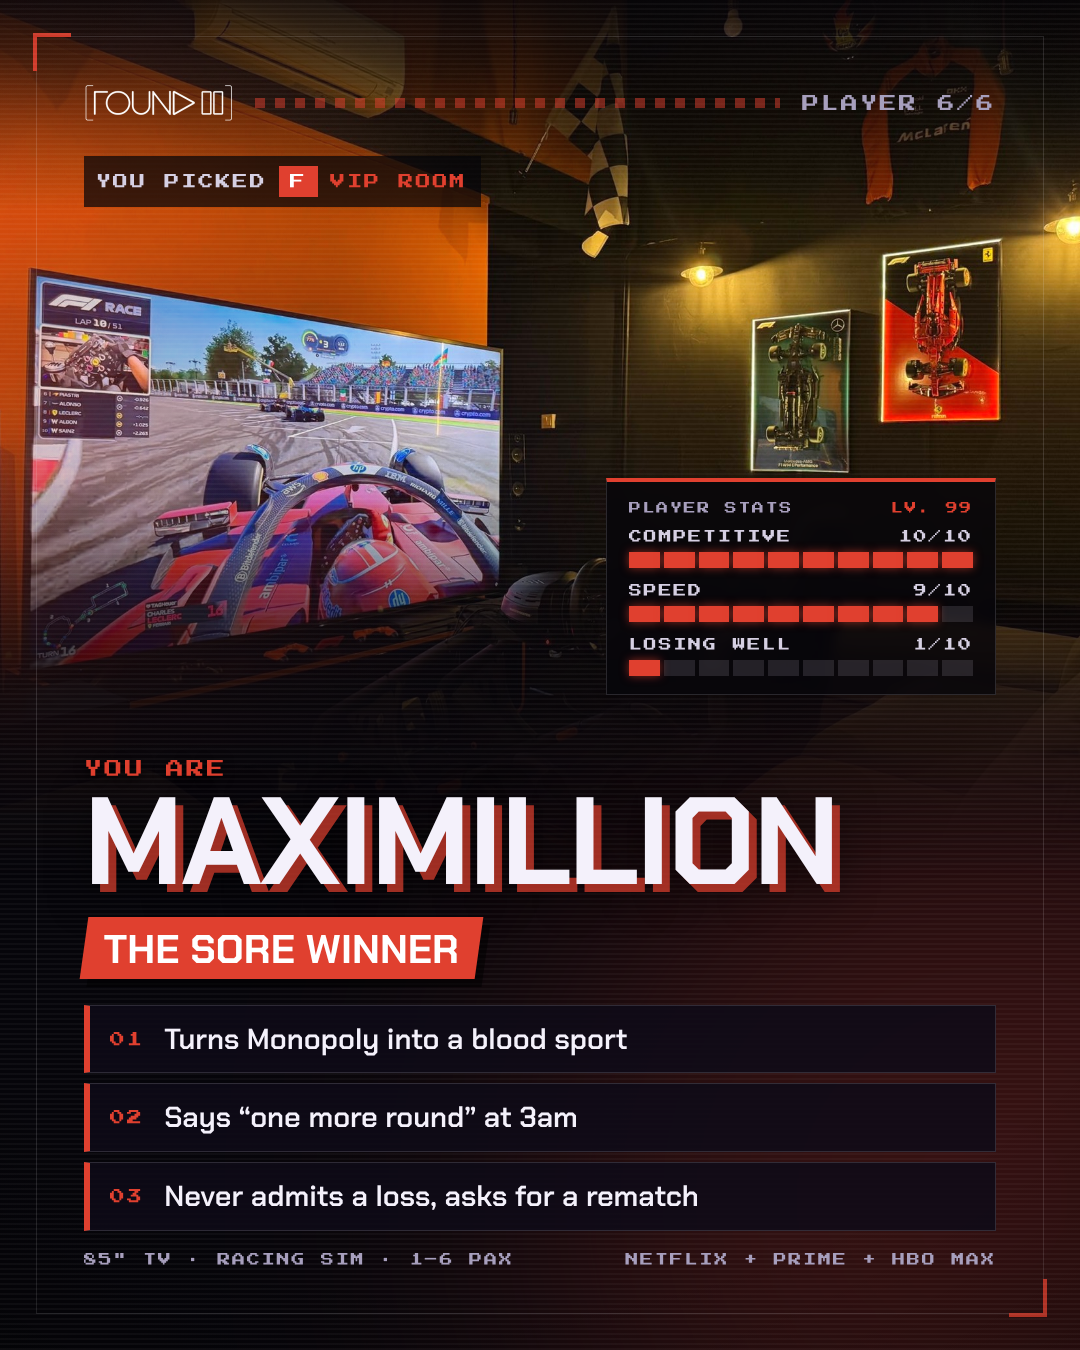
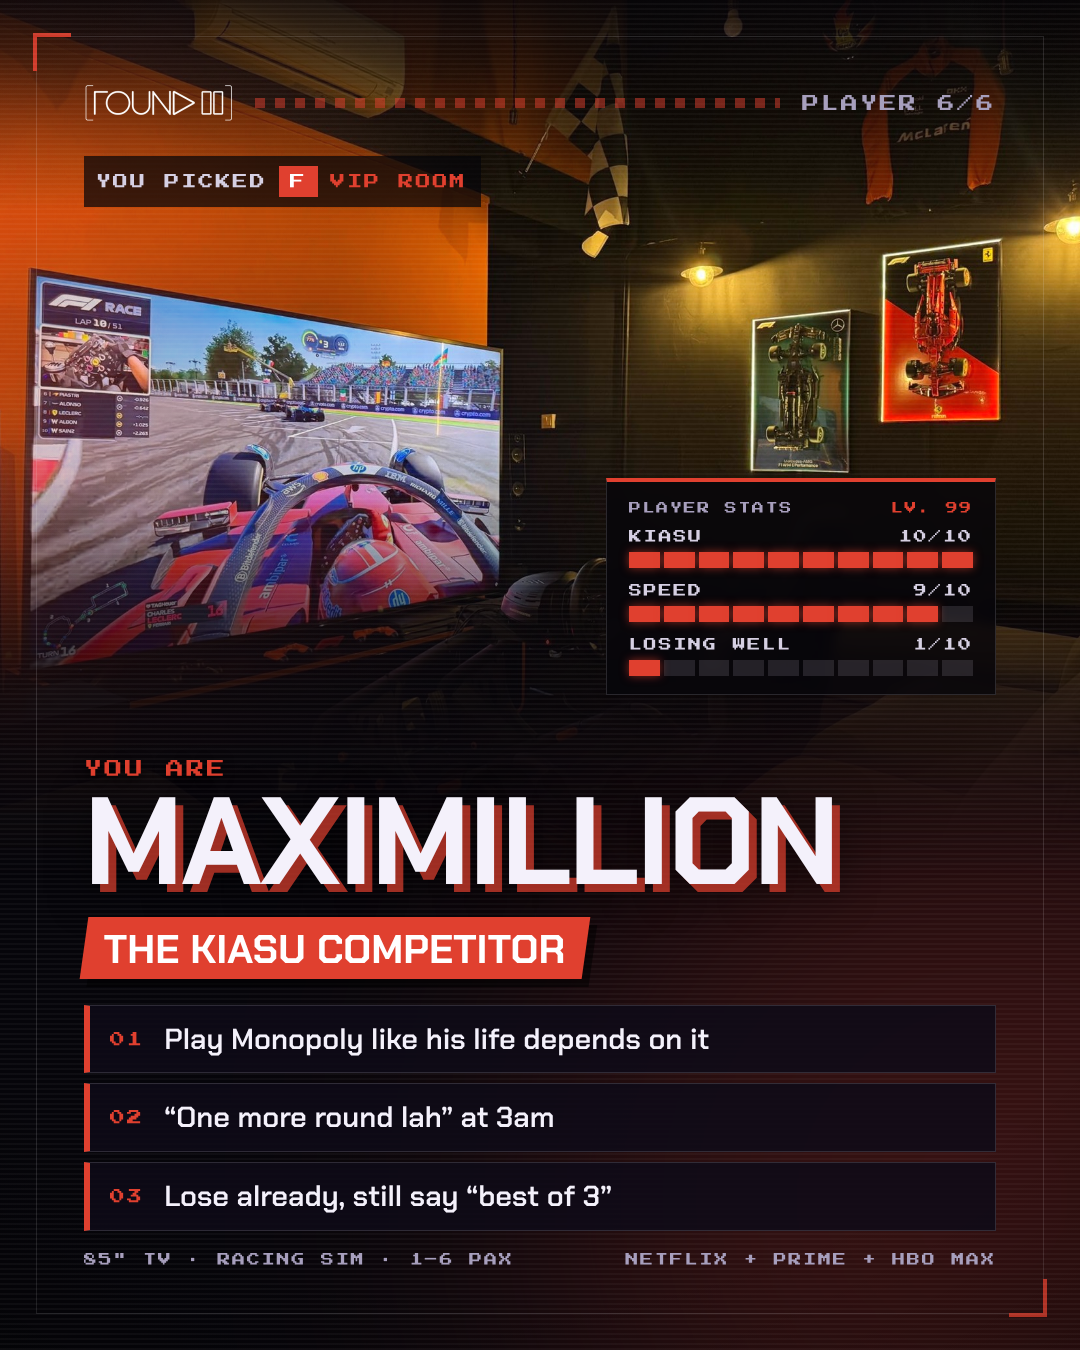
Room quiz: Singaporean copy (Singlish lines, local references)
Claude-Session: https://claude.ai/code/session_01PDkwSCLDYKchcH27nujJvW

diff --git a/marketing/ig-room-quiz/index.html b/marketing/ig-room-quiz/index.html
@@ -104,18 +104,24 @@ body.render .blink{animation:none}
 /* ============================ EDIT HERE ============================ */
 // One option per room. Rooms, colours and specs come from the live site. Kaeden is left out while it's under renovation.
 const QUIZ = [
-  { k:'A', room:'Vale',        night:'Unbothered face, loudest in the group chat', type:'The cold-girl extrovert',
-    traits:['Looks unapproachable, talks to everyone','Starts the karaoke and the drama','Secretly cries at Pixar movies'], stats:[['Social',9],['Chaos',8],['Soft side',7]], sprite:'bauhaus' },
-  { k:'B', room:'Scarlett',    night:'Most awake at 2am',                         type:'The night-owl overthinker',
-    traits:['Sends songs instead of saying how she feels','Deep talks only after midnight','Believes in the stars, a little'], stats:[['Night owl',10],['Overthinking',9],['Mystery',8]], sprite:'moon' },
-  { k:'C', room:'Kai',         night:'Leaves first, sleeps best',                 type:'The calm introvert',
-    traits:['Replies “all good” and actually means it','Everyone’s unpaid therapist','Owns more plants than friends'], stats:[['Chill',10],['Patience',9],['Social battery',3]], sprite:'bonsai' },
-  { k:'D', room:'Bella',       night:'Looks innocent, planned everything',        type:'The sweet-looking menace',
-    traits:['Started the whole plan, takes no blame','Reads tarot “for fun”, takes it seriously','Romanticises rainy days and old books'], stats:[['Mischief',9],['Mystery',8],['Alibi',10]], sprite:'candle' },
-  { k:'E', room:'Atlas',       night:'Romanticises literally everything',         type:'The main-character dreamer',
-    traits:['Has a Pinterest board for a life not lived yet','Falls for people in one conversation','Takes 200 photos, posts none'], stats:[['Daydreaming',10],['Romance',9],['Posting',1]], sprite:'column' },
-  { k:'F', room:'Maximillion', night:'Turns everything into a competition',       type:'The sore winner',
-    traits:['Turns Monopoly into a blood sport','Says “one more round” at 3am','Never admits a loss, asks for a rematch'], stats:[['Competitive',10],['Speed',9],['Losing well',1]], sprite:'flag' },
+  { k:'A', room:'Vale',        night:'Look fierce, actually damn friendly',        type:'The cold-girl extrovert',
+    traits:['Look unapproachable, chat with Grab uncle whole way','First one to ask “eh, karaoke anot?”','Cry at Pixar movies, then deny'],
+    stats:[['Social',9],['Drama',8],['Paiseh',2]], sprite:'bauhaus' },
+  { k:'B', room:'Scarlett',    night:'2am still awake, overthinking one text',     type:'The 2am overthinker',
+    traits:['Reply “ok” then overthink for 3 hours','Supper at 1am, deep talk at 3am','Send a Spotify song instead of saying feelings'],
+    stats:[['Night owl',10],['Overthinking',9],['Supper cravings',8]], sprite:'moon' },
+  { k:'C', room:'Kai',         night:'Weekend plan: stay home. Can.',              type:'The “can, no problem” introvert',
+    traits:['Reply “can” to everything, and mean it','Free therapist for the whole friend group','Social battery die after one dinner'],
+    stats:[['Chill',10],['Patience',9],['Social battery',3]], sprite:'bonsai' },
+  { k:'D', room:'Bella',       night:'Look innocent, actually the mastermind',     type:'The innocent-face mastermind',
+    traits:['Plan the whole chaos, then “eh not me leh”','Read tarot “for fun”, but very serious','Rainy day = book, kopi, don’t disturb'],
+    stats:[['Mischief',9],['Mystery',8],['Alibi',10]], sprite:'candle' },
+  { k:'E', room:'Atlas',       night:'Main character, even at the hawker centre', type:'The main-character dreamer',
+    traits:['Plan Santorini trip every month, never book','Take 200 photos at Haji Lane, post none','Crush on someone after one bus stop chat'],
+    stats:[['Daydreaming',10],['Romance',9],['Posting',1]], sprite:'column' },
+  { k:'F', room:'Maximillion', night:'Lose Monopoly also cannot accept one',      type:'The kiasu competitor',
+    traits:['Play Monopoly like his life depends on it','“One more round lah” at 3am','Lose already, still say “best of 3”'],
+    stats:[['Kiasu',10],['Speed',9],['Losing well',1]], sprite:'flag' },
 ];
 /* =================================================================== */
 
@@ -172,7 +178,7 @@ function cover(){
     <div class="cv-k px"><span>Round2 quiz</span><span>6 rooms · 1 you</span></div>
     <h1 class="cv-t">Which room<br><span>are you?</span></h1>
     <div class="grid">${tiles}</div>
-    <div class="cv-f px"><span>Pick the one that’s SO you.</span><b>Swipe to reveal <span class="blink">▶</span></b></div>`, 'right:-380px;top:-300px');
+    <div class="cv-f px"><span>Don’t think so much lah</span><b>Swipe to see <span class="blink">▶</span></b></div>`, 'right:-380px;top:-300px');
 }
 function card(q, i){
   const r = ROOMS[q.room];
@@ -192,9 +198,9 @@ function end(){
     <img src="photos/${q.room.toLowerCase()}.jpg" alt="" onerror="this.remove()"><span class="k px">${q.k}</span>
     <span class="r px">${esc(q.room === 'Maximillion' ? 'Max' : q.room)}</span></div>`; }).join('');
   return frame('#F2C21B','#0b0914', `${topBar('Your move')}
-    <div class="en-k px">Player 2, press start <span class="blink">_</span></div>
-    <h2 class="en-t">Drop your<br><em>letter.</em></h2>
-    <div class="en-s">Comment A–F below, then tag the friend who is so obviously a Bella.</div>
+    <div class="en-k px">Player 2, your turn ah <span class="blink">_</span></div>
+    <h2 class="en-t">Drop your<br><em>letter lah.</em></h2>
+    <div class="en-s">Comment A–F, then tag the friend who confirm plus chop is a Bella.</div>
     <div class="chips">${chips}</div>
     <div class="cta"><div><div class="b px">Play your room</div><div class="a" style="margin-top:12px">Book at round2.sg</div></div><div class="a">▶</div></div>
     <div class="foot px"><span>Private movie &amp; game rooms</span><span>Haji Lane</span></div>`, 'left:-260px;bottom:-420px');
